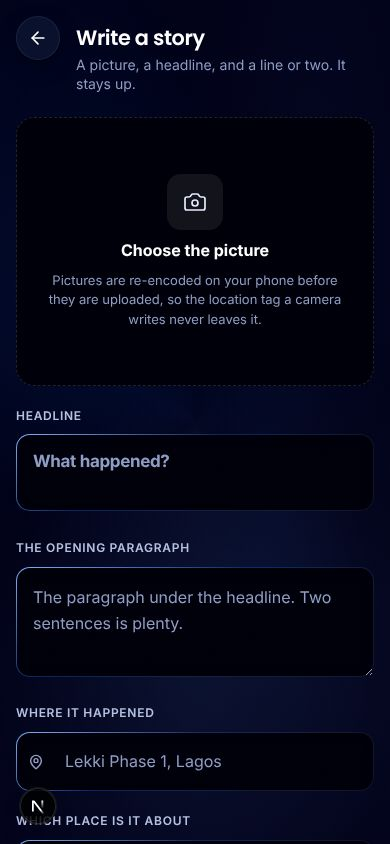
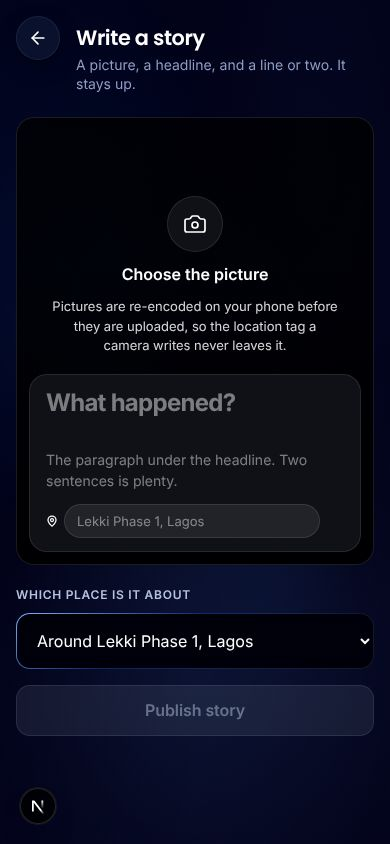
Feed: quiet Follow capsules, the composer page loses its box, after shots
- Follow in the worth-following rows is a soft brand capsule, not three lit
  primaries in one block (D74 restraint).
- The full-page composer's field draws no ring or box (the platform ring is
  unlayered, so it is turned off through its own token on the element) and
  the tool row sits on the page, not on a darker strip.
- After shots at 390 (and 1440 for the feed): feed, dock, 320, listing,
  rail, follow block, thread, reply page, composer page, story viewer,
  story composer, delete sheet.

diff --git a/apps/web/src/app/social-feed.css b/apps/web/src/app/social-feed.css
@@ -3430,6 +3430,21 @@
   .nf-compose-page__field::placeholder {
     color: var(--nf-content-muted);
   }
+  /* The page is the field: no box, no ring round it (the caret is the
+     focus). The platform's field ring is for a field among others. */
+  .nf-compose-page .nf-compose-page__field:focus,
+  .nf-compose-page .nf-compose-page__field:focus-visible {
+    outline: none;
+    border: 0;
+    box-shadow: none;
+  }
+  /* The platform ring is unlayered (base.css) and outranks any layered
+     rule, so the field turns it off through the ring's own token, set on
+     the element; the blinking caret in an otherwise empty page is the
+     focus. */
+  .nf-compose-page__field {
+    --nf-focus-ring-width: 0px;
+  }
   .nf-compose-page__tools {
     position: sticky;
     inset-block-end: 0;
@@ -3439,7 +3454,7 @@
     margin-block-start: 12px;
     padding-block: 8px calc(8px + env(safe-area-inset-bottom, 0px));
     border-block-start: 1px solid color-mix(in oklab, var(--nf-content-primary) 9%, transparent);
-    background: var(--nf-surface-canvas);
+    background: transparent;
   }
   .nf-compose-page__tool {
     display: inline-flex;
@@ -3702,6 +3717,22 @@
   .nf-follow-row__act {
     position: relative;
     z-index: 2;
+  }
+  /* Follow is a quiet capsule here, not a lit primary: three lit buttons in
+     one block would be three primaries on a screen whose primary is reading
+     (D74 restraint). The shared button keeps its states; only the dress and
+     the height change, and the row's 64px gives the thumb its room. */
+  .nf-follow-row__act .nf-btn {
+    min-block-size: 36px;
+    block-size: 36px;
+    padding-inline: 16px;
+    border-radius: var(--nf-radius-segment);
+    border: 1px solid color-mix(in oklab, var(--nf-brand-secondary) 45%, transparent);
+    background: color-mix(in oklab, var(--nf-brand-secondary) 12%, transparent);
+    box-shadow: none;
+    color: var(--nf-brand-secondary);
+    font-size: var(--nf-text-caption);
+    font-weight: 600;
   }
   .nf-follow__more {
     display: inline-flex;
